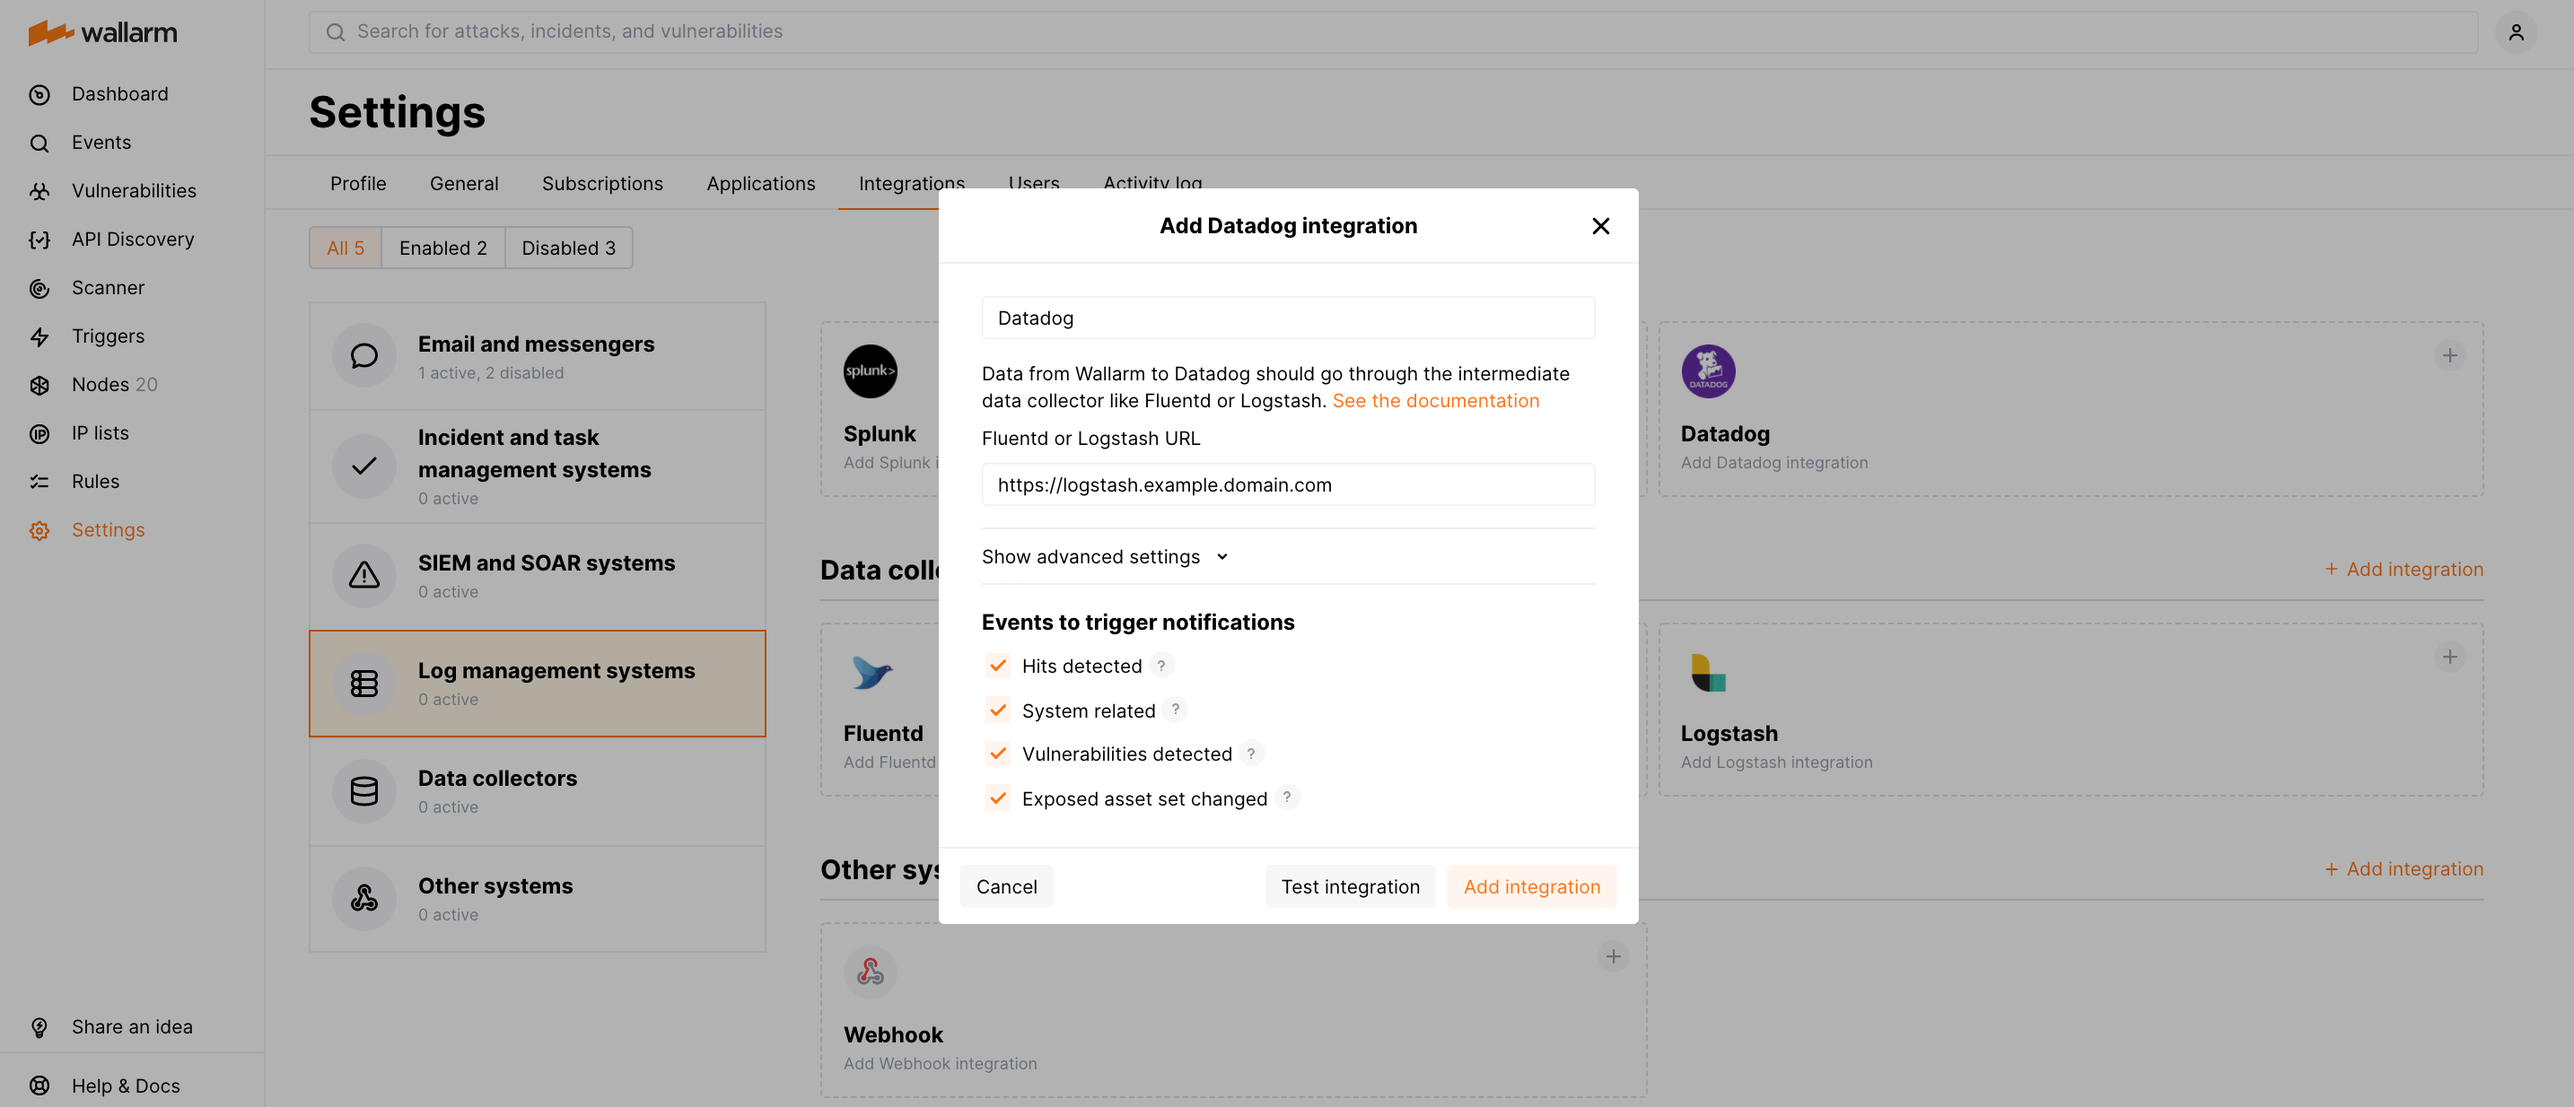
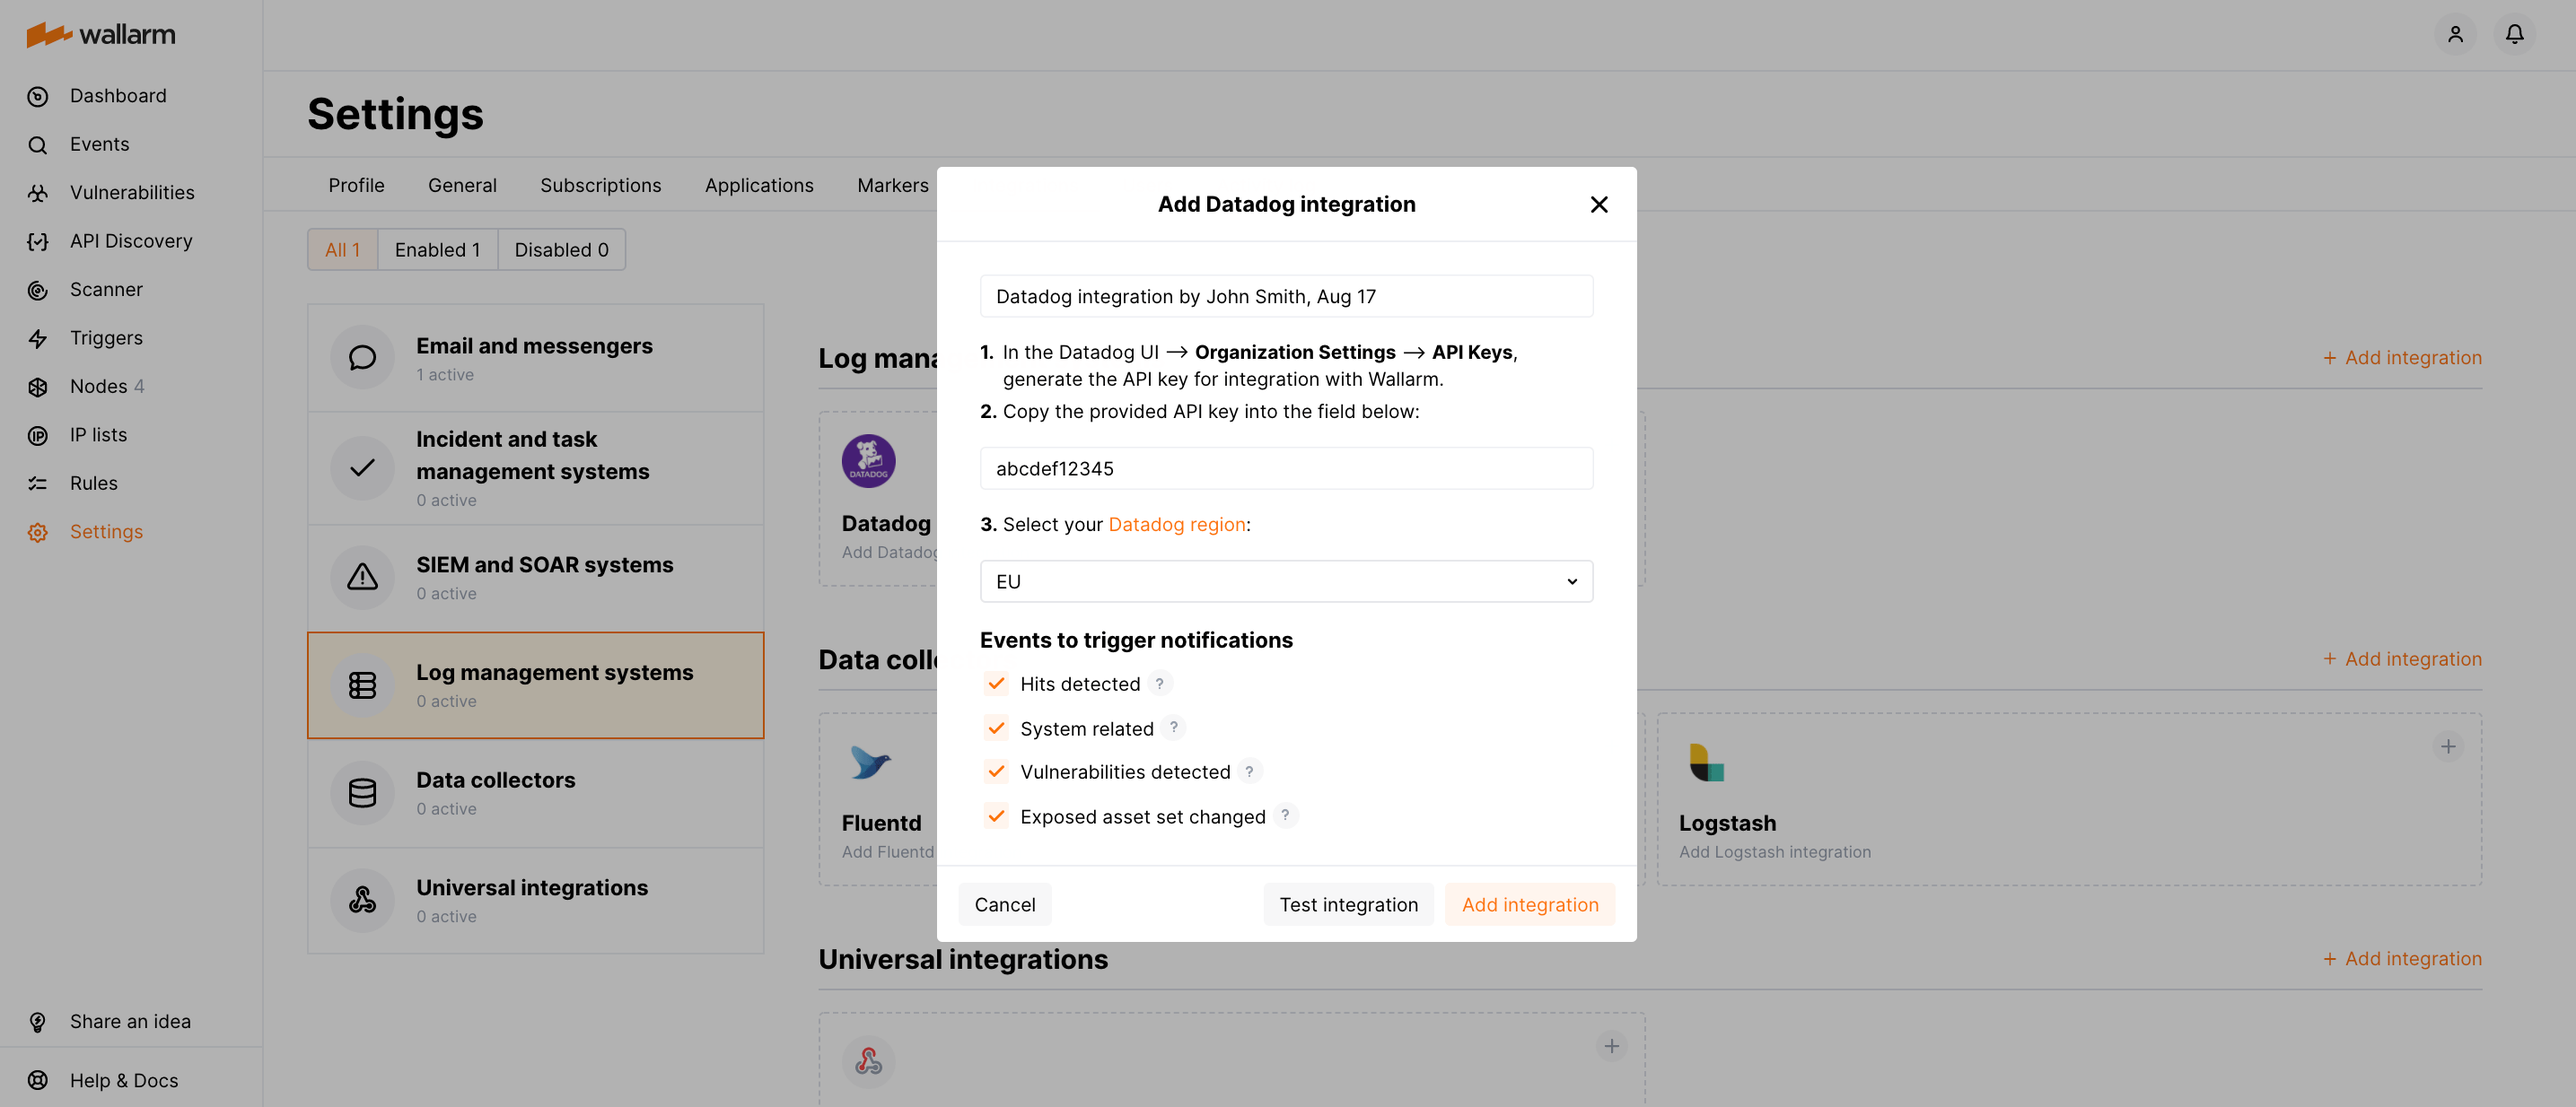
DOCS-1705 describe native Datadog integration

diff --git a/docs/latest/user-guides/settings/integrations/datadog.md b/docs/latest/user-guides/settings/integrations/datadog.md
@@ -1,163 +1,19 @@
 # Datadog
 
-You can set up Wallarm to send notifications of detected events to Datadog through the Fluentd or Logstash intermediate data collector.
-
-![!Sending notifications from Wallarm to Datadog](../../../images/user-guides/settings/integrations/wallarm-log-collector-datadog.png)
+You can set up Wallarm to send notifications of detected events directly to the Datadog Logs service by creating an appropriate integration via [Datadog API key](https://docs.datadoghq.com/account_management/api-app-keys/) in Wallarm Console.
 
 You can choose the following events to be sent to Datadog:
 
 --8<-- "../include/integrations/advanced-events-for-integrations.md"
 
-## Notification format
-
-Wallarm sends notifications via **webhooks** in the JSON format. The set of JSON objects depends on the event Wallarm notifies about.
-
-Example of the notification of the new hit detected:
-
-```json
-[
-    {
-        "summary": "[Wallarm] New hit detected",
-        "details": {
-        "client_name": "TestCompany",
-        "cloud": "EU",
-        "notification_type": "new_hits",
-        "hit": {
-            "domain": "www.example.com",
-            "heur_distance": 0.01111,
-            "method": "POST",
-            "parameter": "SOME_value",
-            "path": "/news/some_path",
-            "payloads": [
-                "say ni"
-            ],
-            "point": [
-                "post"
-            ],
-            "probability": 0.01,
-            "remote_country": "PL",
-            "remote_port": 0,
-            "remote_addr4": "8.8.8.8",
-            "remote_addr6": "",
-            "tor": "none",
-            "request_time": 1603834606,
-            "create_time": 1603834608,
-            "response_len": 14,
-            "response_status": 200,
-            "response_time": 5,
-            "stamps": [
-                1111
-            ],
-            "regex": [],
-            "stamps_hash": -22222,
-            "regex_hash": -33333,
-            "type": "sqli",
-            "block_status": "monitored",
-            "id": [
-                "hits_production_999_202010_v_1",
-                "c2dd33831a13be0d_AC9"
-            ],
-            "object_type": "hit",
-            "anomaly": 0
-            }
-        }
-    }
-]
-```
-
-## Requirements
-
-The configuration of the Fluentd or Logstash intermediate data collector should meet the following requirements:
-
-* Accept the POST or PUT requests
-* Accept HTTPS requests
-* Have public URL
-* Forward logs to Datadog via the `datadog_logs` Logstash plugin or the `fluent-plugin-datadog` Fluentd plugin
-
-=== "Logstash configuration example"
-    1. [Install the `datadog_logs` plugin](https://github.com/DataDog/logstash-output-datadog_logs#how-to-install-it) to forward logs to Datadog.
-    1. Configure Logstash to read incoming requests and forward logs to Datadog.
-
-    The `logstash-sample.conf` configuration file example:
-
-    ```bash linenums="1"
-    input {
-      http { # input plugin for HTTP and HTTPS traffic
-        port => 5044 # port for incoming requests
-        ssl => true # HTTPS traffic processing
-        ssl_certificate => "/etc/server.crt" # Logstash TLS certificate
-        ssl_key => "/etc/server.key" # private key for TLS certificate
-      }
-    }
-    filter {
-      mutate {
-        add_field => {
-            "ddsource" => "wallarm" # mutate filter adding the source field to the Datadog log record for further filtration of Wallarm logs
-        }
-      }
-    }
-    output {
-      stdout {} # output plugin to print Logstash logs on the command line
-      datadog_logs { # output plugin to forward the Logstash logs to Datadog
-          api_key => "XXXX" # API key generated for the organization in Datadog
-          host => "http-intake.logs.datadoghq.eu" # Datadog endpoint (depends on the registration region)
-      }
-    }
-    ```
-
-    * [Documentation on the Logstash configuration file structure](https://www.elastic.co/guide/en/logstash/current/configuration-file-structure.html)
-    * [Documentation on the `datadog_logs` plugin](https://docs.datadoghq.com/integrations/logstash/)
-=== "Fluentd configuration example"
-    1. [Install the `fluent-plugin-datadog` plugin](https://github.com/DataDog/fluent-plugin-datadog#pre-requirements) to forward logs to Datadog.
-    1. Configure Fluentd to read incoming requests and forward logs to Datadog.
-
-    The `td-agent.conf` configuration file example:
-
-    ```bash linenums="1"
-    <source>
-      @type http # input plugin for HTTP and HTTPS traffic
-      port 9880 # port for incoming requests
-      <transport tls> # configuration for connections handling
-        cert_path /etc/ssl/certs/fluentd.crt
-        private_key_path /etc/ssl/private/fluentd.key
-      </transport>
-    </source>
-    <match datadog.**>
-      @type datadog # output plugin to forward logs from Fluentd to Datadog
-      @id awesome_agent
-      api_key XXXX # API key generated for the organization in Datadog
-      host 'http-intake.logs.datadoghq.eu' # Datadog endpoint (depends on the registration region)
-    
-      # Optional
-      include_tag_key true
-      tag_key 'tag'
-    
-      # Optional tags
-      dd_source 'wallarm' # adding the source field to the Datadog log record for further filtration of Wallarm logs
-      dd_tags 'integration:fluentd'
-    
-      <buffer>
-              @type memory
-              flush_thread_count 4
-              flush_interval 3s
-              chunk_limit_size 5m
-              chunk_limit_records 500
-      </buffer>
-    </match>
-    ```
-
-    * [Documentation on the Fluentd configuration file structure](https://docs.fluentd.org/configuration/config-file)
-    * [Documentation on the `fluent-plugin-datadog` plugin](https://docs.datadoghq.com/integrations/fluentd)
-
 ## Setting up integration
 
-1. Proceed to the Datadog integration setup in Wallarm Console → **Settings** → **Integrations** → **Datadog**.
-1. Input the integration name.
-1. Specify target Fluentd or Logstash URL (Webhook URL).
-1. If required, configure advanced settings:
-
-    --8<-- "../include/integrations/webhook-advanced-settings.md"
-1. Choose event types to trigger sending notifications to the specified URL. If the events are not chosen, then notifications will not be sent.
+1. Open the Datadog UI → **Organization Settings** → **API Keys** and generate the API key for the integration with Wallarm.
+1. Open Wallarm Console → **Settings** → **Integrations** and proceed to the **Datadog** integration setup.
+1. Enter an integration name.
+1. Paste the Datadog API key to the **API key** field.
+1. Select the [Datadog region](https://docs.datadoghq.com/getting_started/site/).
+1. Choose event types to trigger notifications. If the events are not chosen, then notifications will not be sent.
 1. [Test the integration](#testing-integration) and make sure the settings are correct.
 1. Click **Add integration**.
 
@@ -166,53 +22,6 @@ The configuration of the Fluentd or Logstash intermediate data collector should 
 ## Testing integration
 
 --8<-- "../include/integrations/test-integration.md"
-
-The test log in the Fluentd or Logstash intermediate data collector:
-
-```json
-[
-    {
-        summary:"[Test message] [Test partner(US)] New vulnerability detected",
-        description:"Notification type: vuln
-
-                    New vulnerability was detected in your system.
-
-                    ID: 
-                    Title: Test
-                    Domain: example.com
-                    Path: 
-                    Method: 
-                    Discovered by: 
-                    Parameter: 
-                    Type: Info
-                    Threat: Medium
-
-                    More details: https://us1.my.wallarm.com/object/555
-
-
-                    Client: TestCompany
-                    Cloud: US
-                    ",
-        details:{
-            client_name:"TestCompany",
-            cloud:"US",
-            notification_type:"vuln",
-            vuln_link:"https://us1.my.wallarm.com/object/555",
-            vuln:{
-                domain:"example.com",
-                id:null,
-                method:null,
-                parameter:null,
-                path:null,
-                title:"Test",
-                discovered_by:null,
-                threat:"Medium",
-                type:"Info"
-            }
-        }
-    }
-]
-```
 
 The test Datadog log:
 
